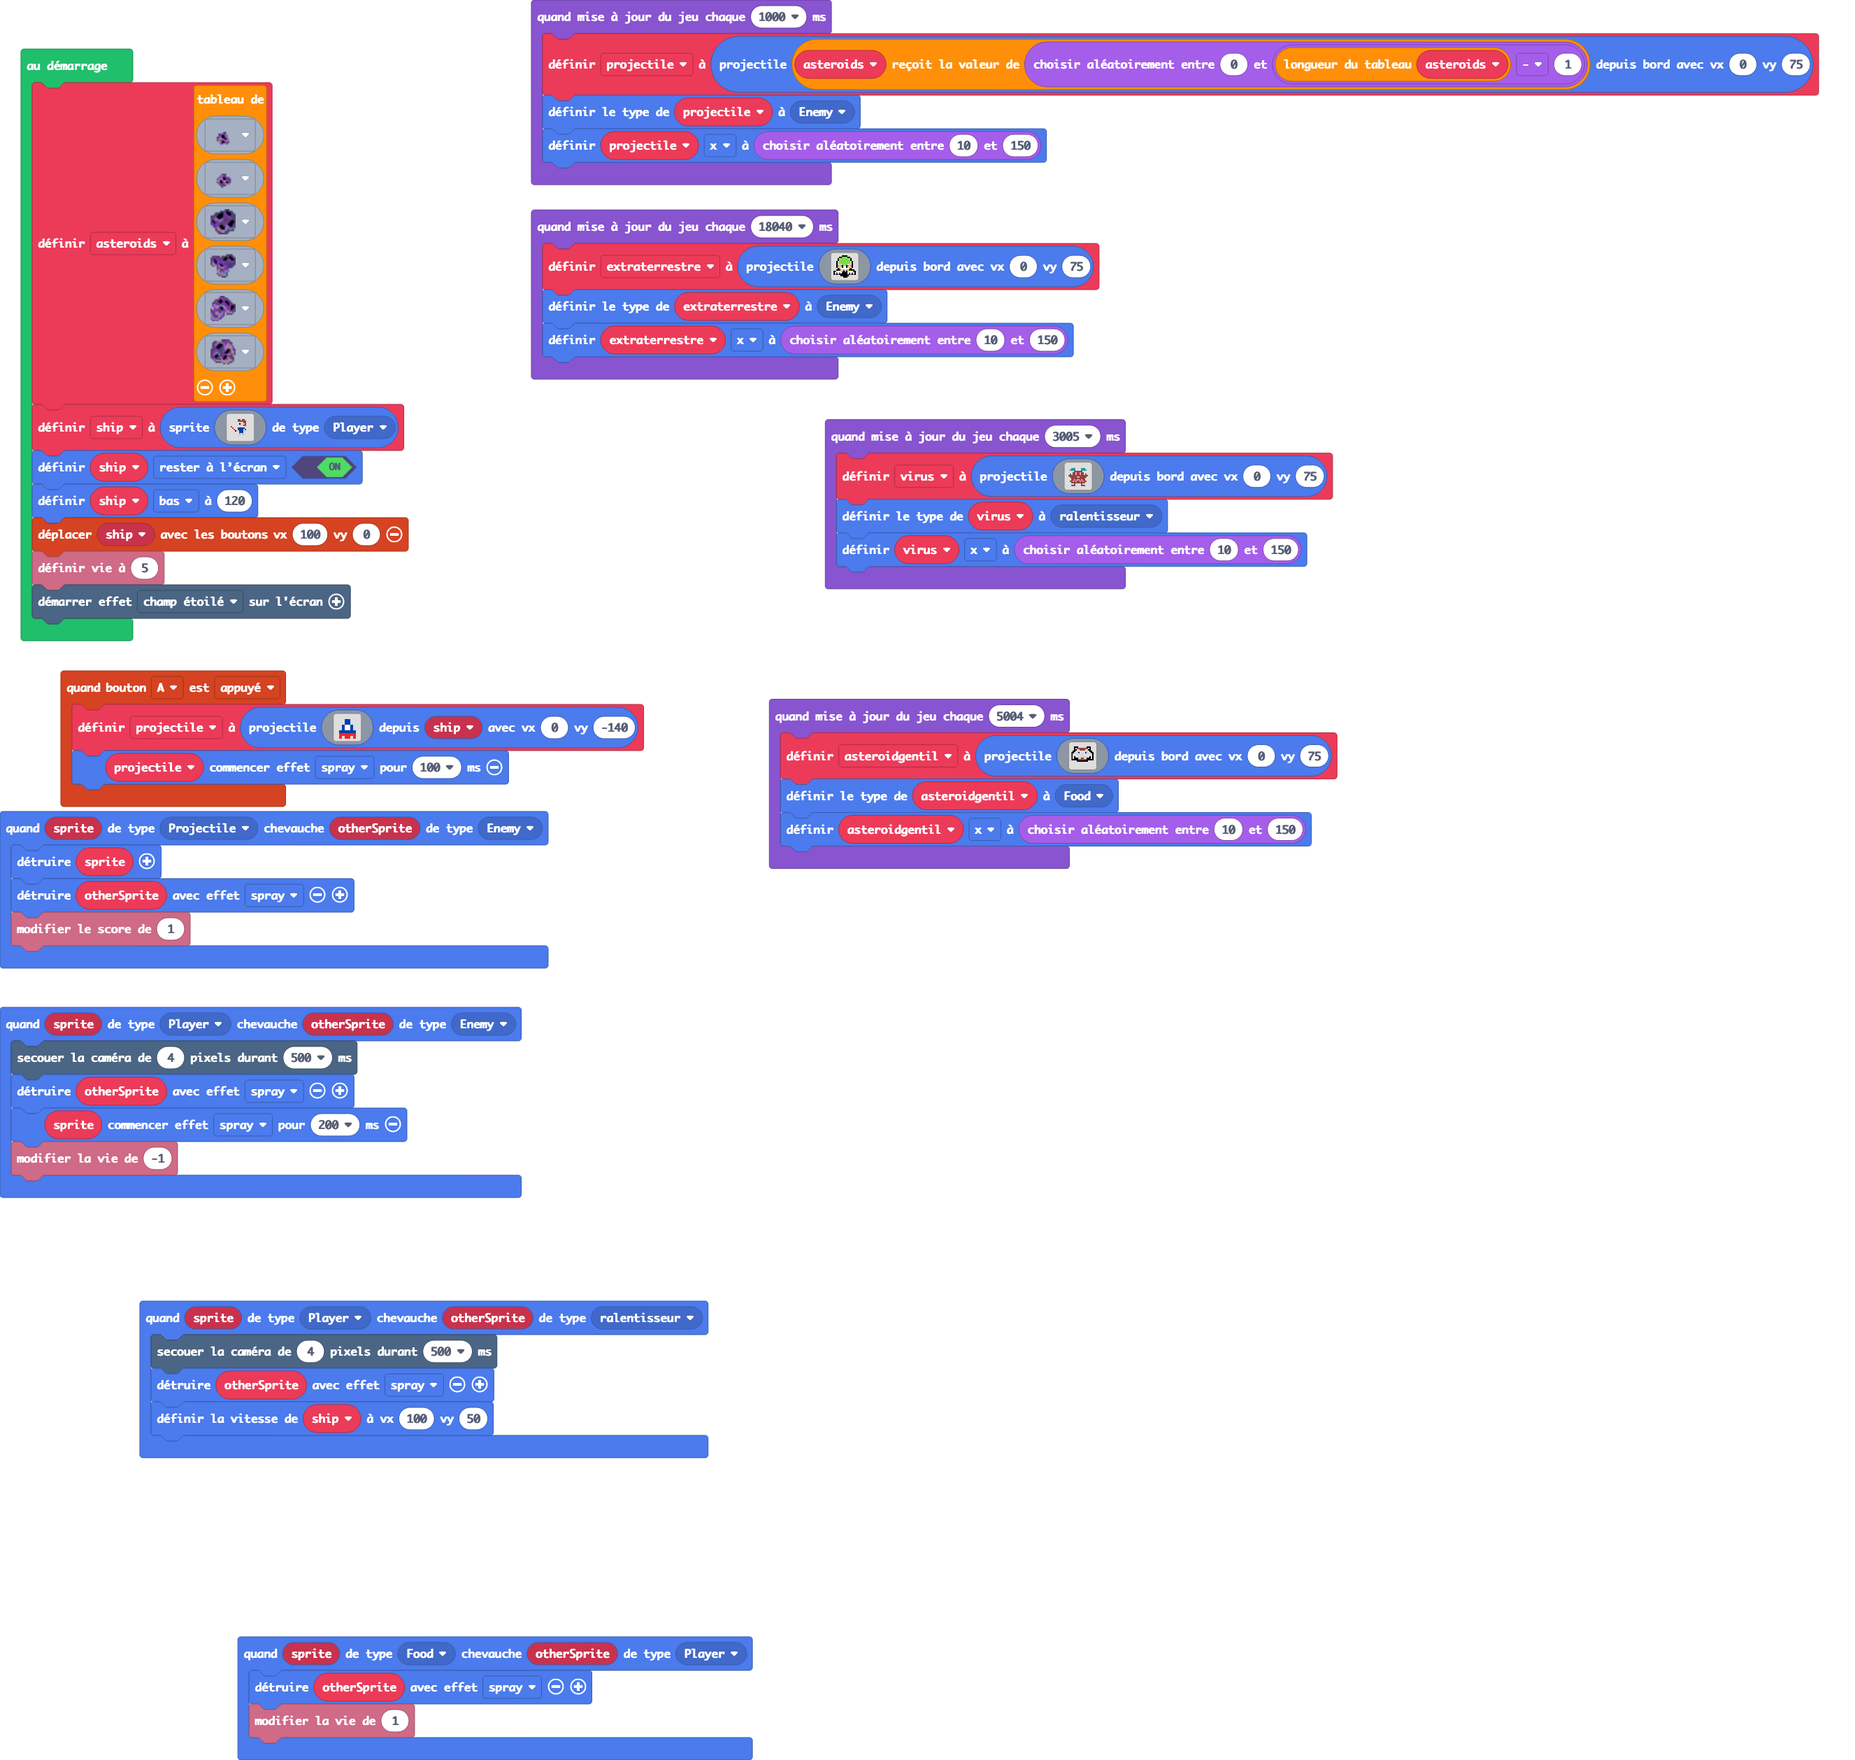
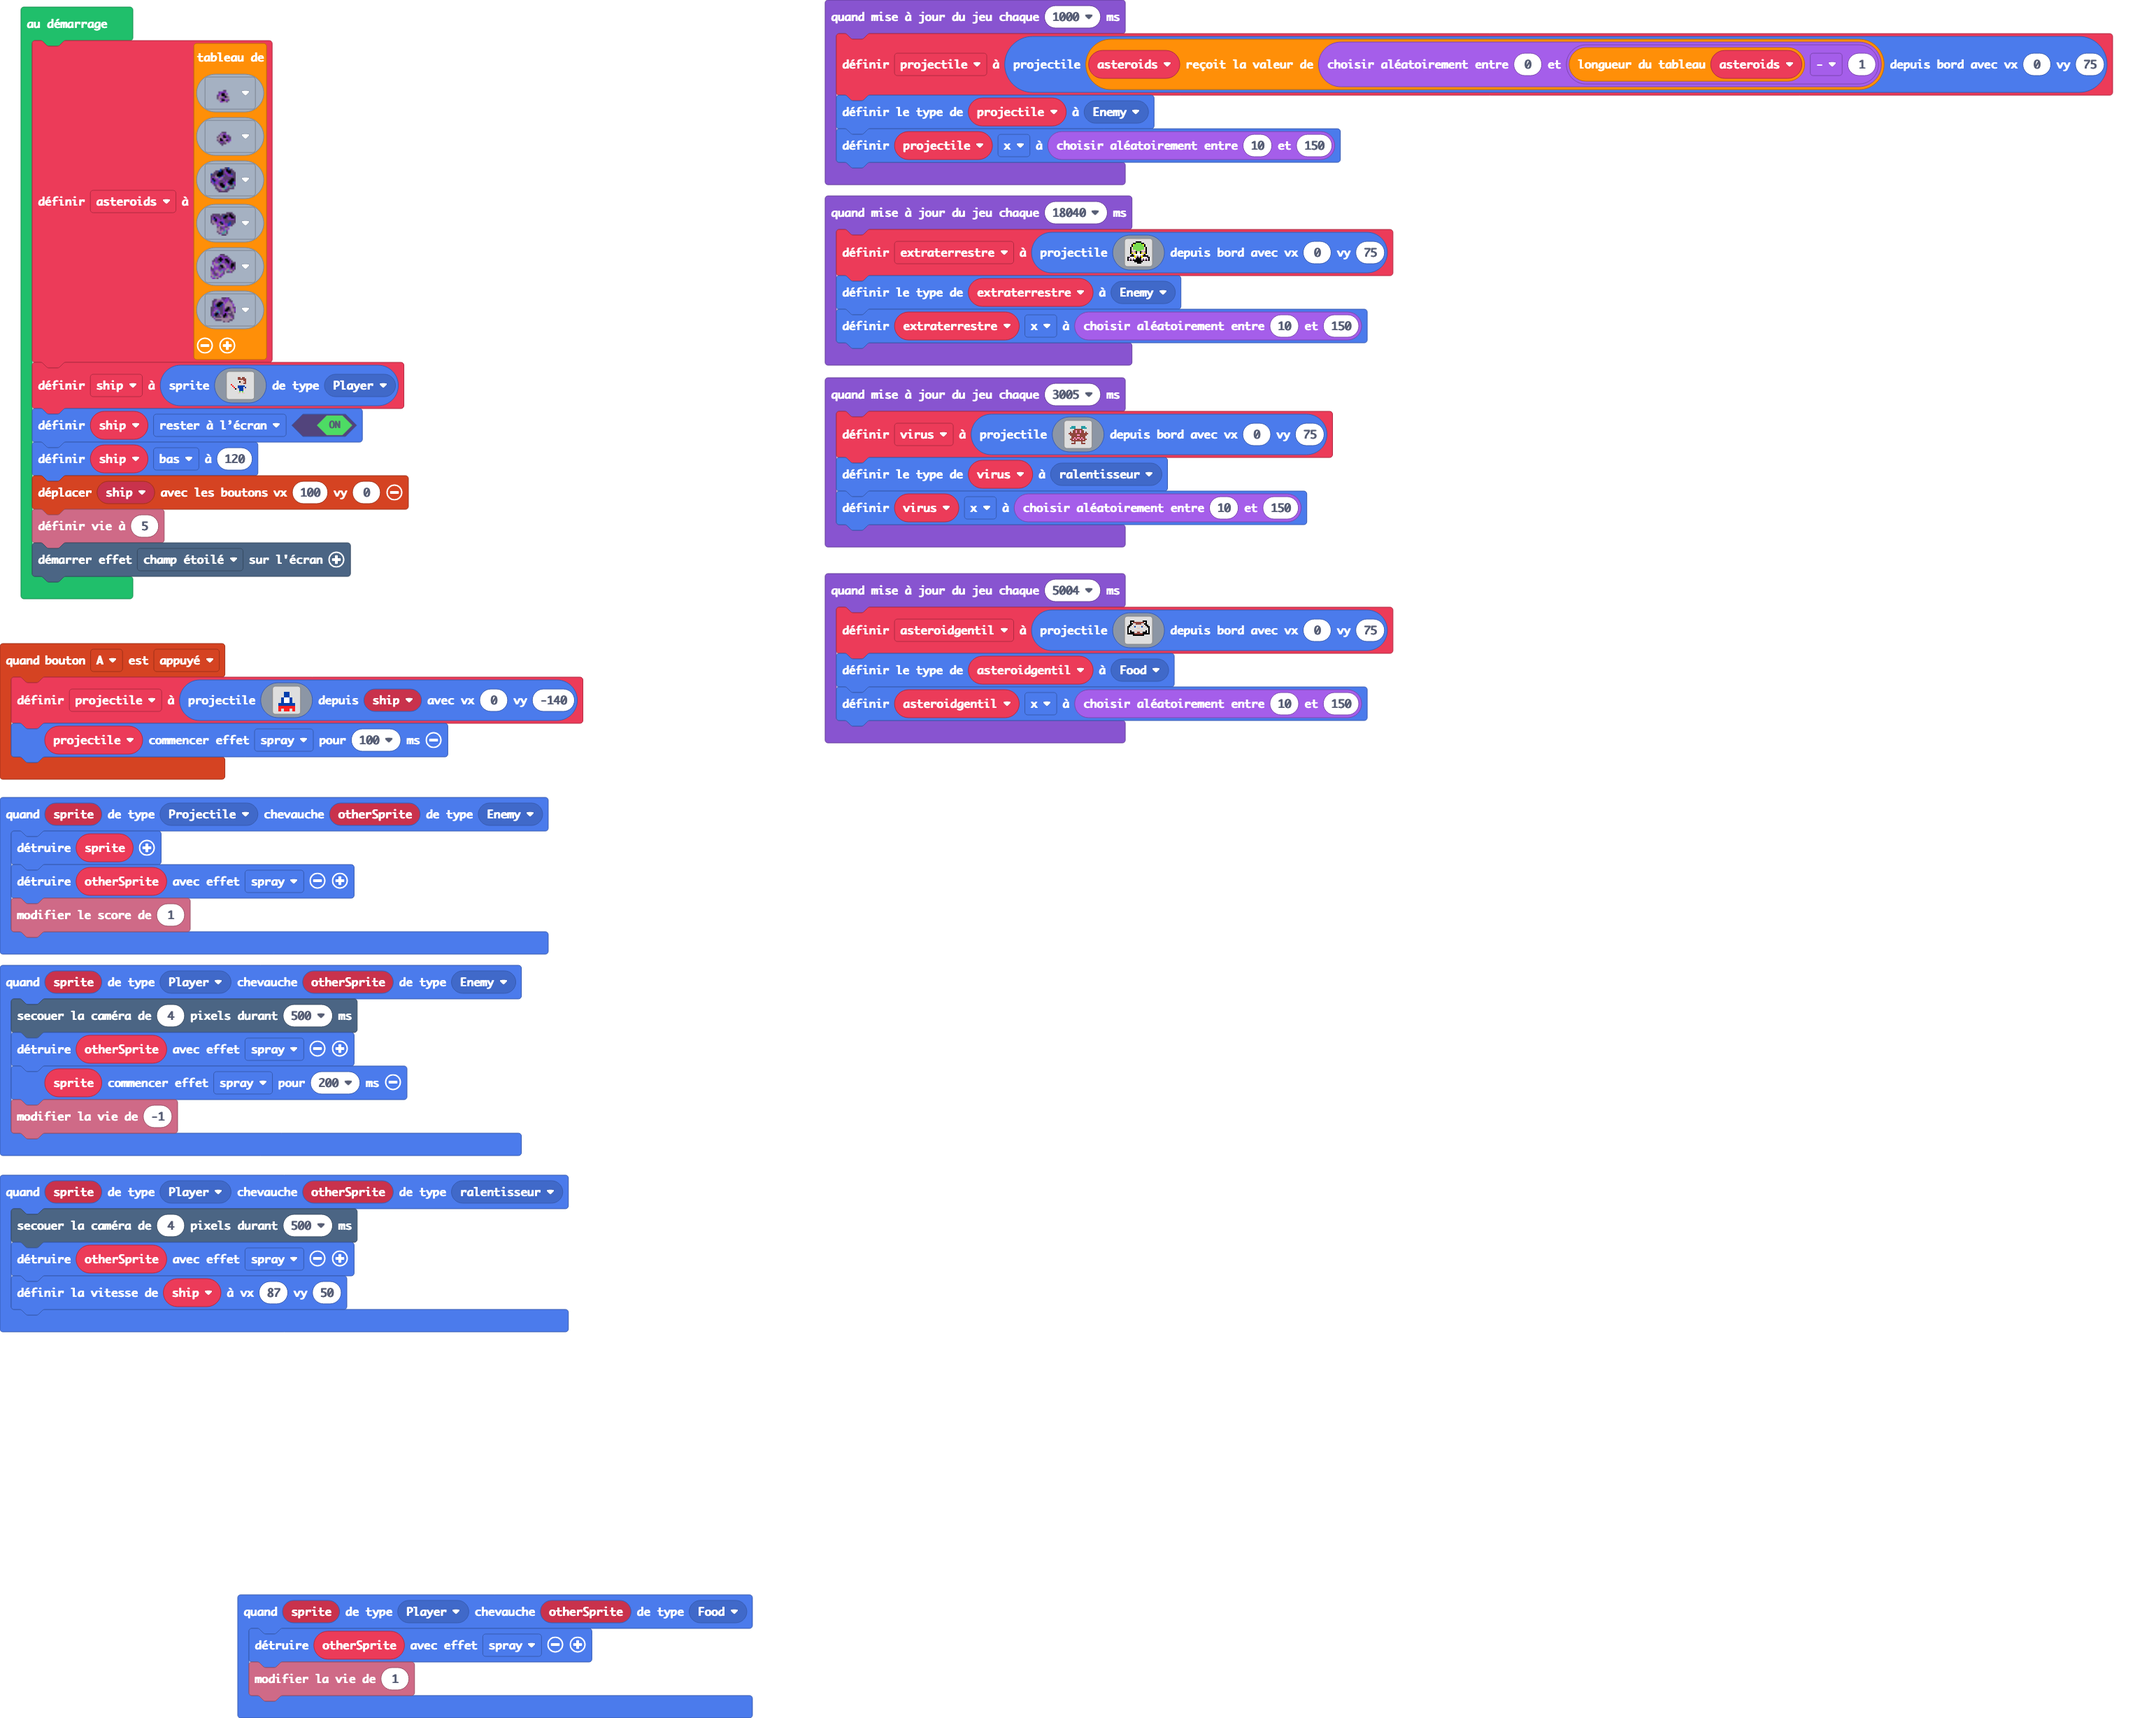
Mise à jour main.blocks, main.ts

Changed region(s): [[0.0, 0.0, 0.9891, 0.8355], [0.0927, 0.9283, 0.4327, 1.0]]

diff --git a/main.ts b/main.ts
@@ -1,10 +1,6 @@
 namespace SpriteKind {
     export const ralentisseur = SpriteKind.create()
 }
-sprites.onOverlap(SpriteKind.Food, SpriteKind.Player, function (sprite, otherSprite) {
-    otherSprite.destroy(effects.spray)
-    info.changeLifeBy(1)
-})
 controller.A.onEvent(ControllerButtonEvent.Pressed, function () {
     projectile = sprites.createProjectileFromSprite(img`
         . . . . . . . . 
@@ -21,7 +17,11 @@ controller.A.onEvent(ControllerButtonEvent.Pressed, function () {
 sprites.onOverlap(SpriteKind.Player, SpriteKind.ralentisseur, function (sprite, otherSprite) {
     scene.cameraShake(4, 500)
     otherSprite.destroy(effects.spray)
-    ship.setVelocity(100, 50)
+    ship.setVelocity(87, 50)
+})
+sprites.onOverlap(SpriteKind.Player, SpriteKind.Food, function (sprite, otherSprite) {
+    otherSprite.destroy(effects.spray)
+    info.changeLifeBy(1)
 })
 sprites.onOverlap(SpriteKind.Projectile, SpriteKind.Enemy, function (sprite, otherSprite) {
     sprite.destroy()
